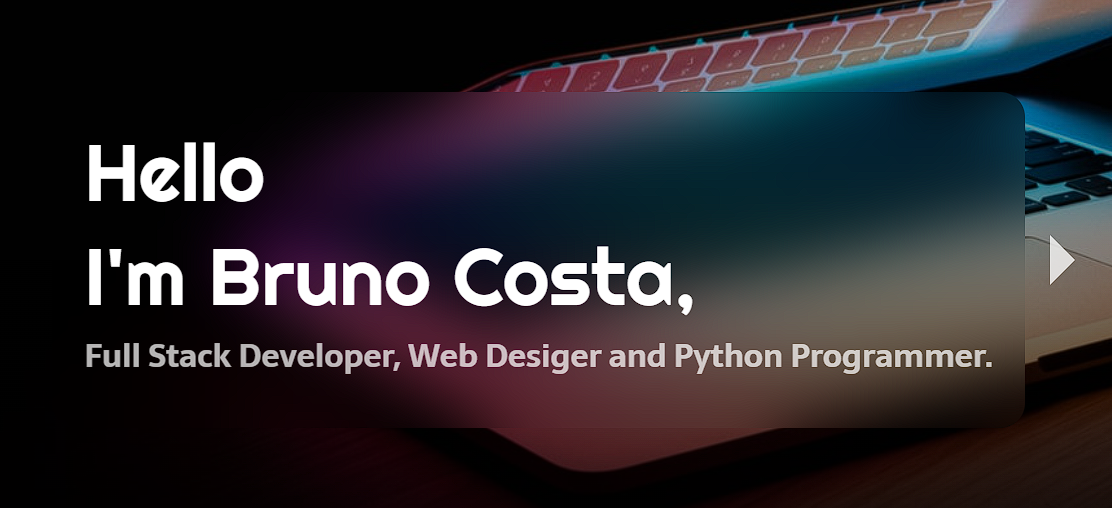
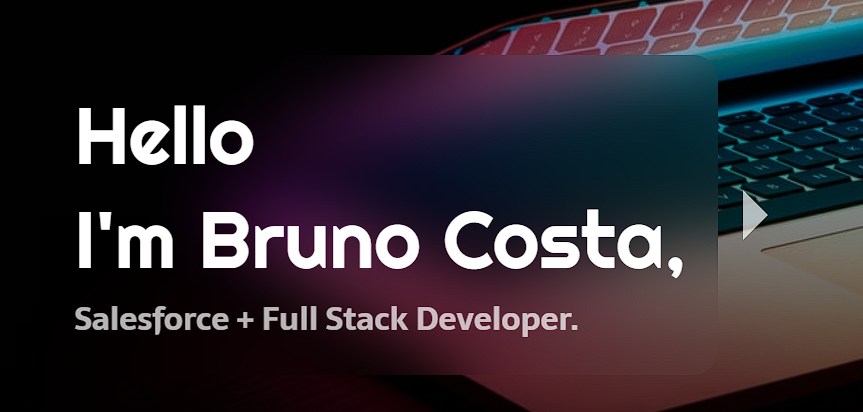
updateAboutMe

diff --git a/animacoes.js b/animacoes.js
@@ -42,14 +42,15 @@ function moreAbout() {
 
     <h1 id='aboutTop'>Hi!</h1>
     <p id='aboutContent'>
-    I'm a FullStack developer and Technologist in Systems Analysis and Development. I can consider myself a prudent person,
-    knowing the risks before defining my actions. In areas such as
-    logistics or production, for example, I can work with
-    methodologies that allow me to anticipate scenarios and avoid
-    problems, which will probably be comfortable for me. In these
-    areas I can highlight myself by my organization characteristics,
-    process vision and cooperative profile. For me the mistake is a
-    learning, I work a lot to know how to deal with them.
+    I'm a Salesforce + FullStack developer and Technologist in Systems Analysis and Development. I can consider myself a prudent person,
+              knowing the risks before defining my actions. In areas such as
+              logistics or production, for example, I can work with
+              methodologies that allow me to anticipate scenarios and avoid
+              problems, which will probably be comfortable for me. In these
+              areas I can highlight myself by my organization characteristics,
+              process vision and cooperative profile. For me the mistake is a
+              learning, I work a lot to know how to deal with them.
+              I'm always looking for new challenges that allow me to apply my knowledge in practice, contributing to the success of an organization.
     </p>
 
     <button class='moreAbout' onclick='moreAbout()'>

diff --git a/index.html b/index.html
@@ -118,7 +118,7 @@
           <div id="aboutMePart">
             <h1>Hi!</h1>
             <p>
-              I'm a FullStack developer and Technologist in Systems Analysis and Development. I can consider myself a prudent person,
+              I'm a Salesforce + FullStack developer and Technologist in Systems Analysis and Development. I can consider myself a prudent person,
               knowing the risks before defining my actions. In areas such as
               logistics or production, for example, I can work with
               methodologies that allow me to anticipate scenarios and avoid
@@ -126,6 +126,7 @@
               areas I can highlight myself by my organization characteristics,
               process vision and cooperative profile. For me the mistake is a
               learning, I work a lot to know how to deal with them.
+              I'm always looking for new challenges that allow me to apply my knowledge in practice, contributing to the success of an organization.
             </p>
             <button class="moreAbout" onclick="moreAbout()">
               SEE MY JOURNEY <i class="bi bi-caret-right-fill"></i>
